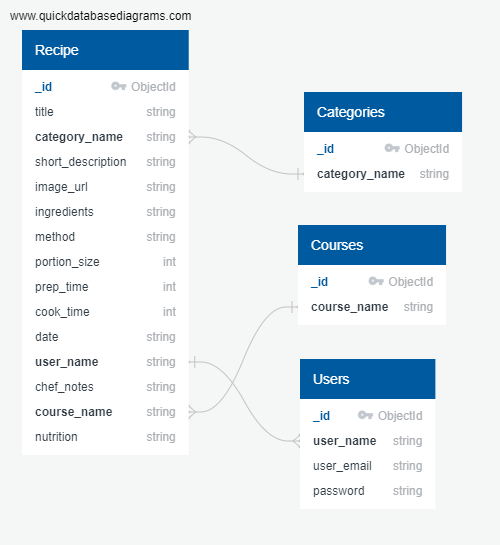
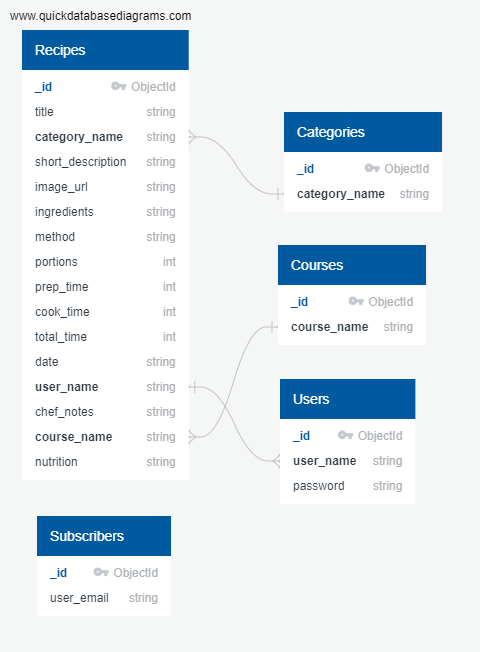
Change text Back to All Recipes to an arrow and just To All Recipes

diff --git a/templates/search-results.html b/templates/search-results.html
@@ -25,7 +25,7 @@
     <!-- back to search -->
     <div class="row">
         <div class="col s12">
-            <a href="{{ url_for('all_recipes') }}" class="waves-effect waves-dark btn orange">Back to All Recipes</a>
+            <a href="{{ url_for('all_recipes') }}" class="waves-effect waves-dark btn orange"><i class="small material-icons left">chevron_left</i> To All Recipes</a>
         </div>
     </div>
     <div class="row">

diff --git a/README.md b/README.md
@@ -156,14 +156,26 @@ Colours for some buttons, like edit and delete were based on different shades of
 
 #### Fonts
 
-On all the recipe websites I researched, I liked the font used on [Napolina](https://www.napolina.com/recipes/30-minute/rigatoni-with-goats-cheese-and-spinach) as a heading, it really stood out as being slightly different with the narrow 's'. However this font is an Adobe Font called 'Mostra Nuova' and would require a licence (Adobe subscription). So I used Google font's filter options to find a narrow, sans-serif to look for a font with similar properties. The [Yanone Kaffeesatz](https://fonts.google.com/specimen/Yanone+Kaffeesatz) font was a more interesting font than most, as it has some slightly different shaped characters than most other fonts of similar type, the k, r and e being good examples. Google fonts has suggestions for font pairings that would work for each particular font, so I looked throught these for a nice body font. I wanted this font to be wider and easier to read at small sizes and had a bit of a constrast with the headings, so I decided [Montserrat](https://fonts.google.com/specimen/Montserrat) would work well.
+On all the recipe websites I researched, I liked the font used on [Napolina](https://www.napolina.com/recipes/30-minute/rigatoni-with-goats-cheese-and-spinach) as a heading, it really stood out as being slightly different with the narrow 's'. However this font is an Adobe Font called 'Mostra Nuova' and would require a licence (Adobe subscription). So I used Google font's filter options to find a narrow, sans-serif to look for a font with similar properties. The [Yanone Kaffeesatz](https://fonts.google.com/specimen/Yanone+Kaffeesatz) font was a more interesting font than most, as it has some slightly different shaped characters than most other fonts of similar type, the k, r and e being good examples. Google fonts has suggestions for font pairings that would work for each particular font, so I looked through these for a nice body font. I wanted this font to be wider and easier to read at small sizes and had a bit of a contrast with the headings, so I decided [Montserrat](https://fonts.google.com/specimen/Montserrat) would work well.
 This [canva article](https://www.canva.com/learn/the-ultimate-guide-to-font-pairing/) also shows Montserrat working well with Narrower heading fonts.
 
 ### Database Schema
 
-Based on the functionality required and the data to be stored, I created my database structure. The Recipe and Categories documents (or tables) would have fields of the same name, so a recipe can be saved to a course type and a category.
+Based on the functionality required and the data to be stored, I created my database structure. The Recipe and Categories documents (or tables) would have fields of the same name, so a recipe can be saved to a course type and a category. A recipe would also need a user, if users are to log in and have the recipes they create connected to their profile.
+
+For now the users do not need to supply an email, but if this project was to advance, this would most probably be require, for things like forgotten password resets.
+
+The subscribers collection would for now only store an email. This is not actually connected to any newsletter service. In the future, this subscriber email could be connected to the users.
 
 ![Schema](README_resources/recipe-app-DB-diagram.png)
+
+### Defensive Design
+
+An important part of UX is making sure users cannot cause errors, and that they get positive useful feedback if they try to perform an action that they are not allowed to. This includes things like:
+ - A user cannot break the site (or cause an error appear on screen), by pressing buttons out of expected order, or using browser forward and back buttons.
+ - Required Form inputs give warnings or feedback if not filled, or filled correctly.
+ - A user is given feedback if they are not allowed to do something.
+ - A custom '404 page not found' page.
 
 ## Technologies Used
 
@@ -180,6 +192,7 @@ Based on the functionality required and the data to be stored, I created my data
 10. [Font Awesome](https://fontawesome.com/)
 11. Google Fonts
 12. [JQuery](https://jquery.com) - The project uses **JQuery** to simplify DOM manipulation, and animation of certain elements.
+13. Extended Material Design icons from [Material Design Icons](https://materialdesignicons.com/)
 
 ### Tools Used
 1. [VS Code](https://code.visualstudio.com/) and [Brackets](http://brackets.io/) code editors.
@@ -191,11 +204,24 @@ Based on the functionality required and the data to be stored, I created my data
 7. [Coolor](https://coolors.co/) - Used top help determine the colour scheme.
 8. [The Padwan Project](https://github.com/Eventyret/Padawan) - While I did not use this tool to generate my project's starting point as I started with [Code Institute's Full template](https://github.com/Code-Institute-Org/gitpod-full-template), I did use it as a reference.
 9. [Gloomaps](https://www.gloomaps.com/) - For creating my sitemap.
+10. [Cloudinary](https://cloudinary.com/) for storing recipe images and images for testing with.
 
 
 ## Features
  
 ### Existing Features
+
+#### The ability to browse/search by recipe categories that are on the website.
+
+#### The ability to search recipes by text keyword. 
+
+This search only searches the recipes title and short description fields. I decided against including the ingredients field as there may be too many minor ingredients that cause too many recipes to appear in the results. For example, nearly every recipe could conceivably contain pepper, but if someone was searching for say a bell pepper recipe, they would have all recipes returned. Plus usually people are searching for a dish title or the main ingredient around which the dish is based.
+
+#### The ability to browse by recipe course.
+
+#### The ability to easily print a recipe in a printer friendly format.
+
+On each recipe page there is a print button, which just easily allows the user to print a recipe. There is a print stylesheet that removes elements you would not need/want printed like the navigation, and it only loads on the individual recipe page.
 
 #### Users can only edit their own Recipes
 #### User can view their own recipes
@@ -203,38 +229,45 @@ Based on the functionality required and the data to be stored, I created my data
 By navigating to their profile page a user can view all the recipes that they have submitted to the site.
 
 #### Minor Features
-Expand the sections below for more info on details
+Expand the sections below for more info on details:
 
 <details>
   <summary><strong>Responsive images</strong></summary>
+
 As the recipe images are provided by external users I could not make these smaller for mobile.
 To allow me to use a different image for the 'no recipe image' for mobile I used the `<picture>` element. This allowed me to create a smaller image just for a mobile.
+The large images for the background of the search panel and title panels actually have 5 different size variations depending on the screen width, using CSS media queries.
+
 </details>
 
 <details>
   <summary><strong>Password matching on Register</strong></summary>
+
 There is a 'Confirm Password' field on the register form which compares the 2 password fields, basically by setting the pattern attribute of the 'Confirm password' field to the first using simple JavaScript onchange function. The basics of this are very simple, the onchange function on the first password field sets the pattern attribute on the second field to be the value of the first field.
 If they do not match, on submission the browser notifies the user "Please match the format requested", which means the password comparing is working but the notification is not clear in what it is asking for. This is the browser default for a pattern not matching, but ideally it should says something like "Passwords do not match". I thought I was going to have to find some javascript to change this and was looking on [this article](https://www.the-art-of-web.com/javascript/validate-password/#section_5) and found that the simplest thing to do is to use a title attribute, and most browsers will automatically display that text in case of a missing value or pattern mismatch. So I did not include any additional Javascript for this for the moment.
 I was also going to include a [RegEx polyfill](https://www.the-art-of-web.com/javascript/validate-password/#section_7) because if your password1 contains a '*' or other special regular expression characters, the pattern for password2 can become invalid. But at the moment my password1 field pattern attribute is actually set to just characters from a-z or numbers so this is not required.
+
 </details>
 
 <details>
   <summary><strong>Skip to main content</strong></summary>
 
- There is a 'Skip to main content' link just inside the body tag for accessibility for screen readers. The main content is not usually the first thing on a web page. Keyboard and screen reader users generally must navigate a long list of navigation links, sub-lists of links, corporate icons, site searches, and other elements before ever arriving at the main content. This is then hidden from view with the bootstrap class 'sr-only', however when it receives focus from keyboard it becomes visible, by basically reversing the Bootstrap CSS properties on focus. This is based on accessibility recommendations from https://webaim.org/techniques/skipnav/. This can be checked by pressing tab when a pages loads.
+ There is a 'Skip to main content' link just inside the body tag for accessibility for screen readers. The main content is not usually the first thing on a web page. Keyboard and screen reader users generally must navigate a long list of navigation links, sub-lists of links, corporate icons, site searches, and other elements before ever arriving at the main content. This is then hidden from view with the class 'sr-only', however when it receives focus from keyboard it becomes visible. This is based on accessibility recommendations from https://webaim.org/techniques/skipnav/. This can be checked by pressing tab when a pages loads, and then pressing tab again should show the next focused element is on the page content and not the logo or navigation.
+
  </details>
 
-##### Form input count
-The text area fields have a max number of characters allowed so I added a simple JavaScript character count on input to give the user an idea of how many characters they have used. This was based on references from [w3schools oninput](https://www.w3schools.com/jsref/event_oninput.asp) and [w3schools output](https://www.w3schools.com/tags/tag_output.asp).
+##### 
+
+
 
 ### Features to consider implementing in the future
 
  - Additional Categorisation by Cuisine (Italian, Chinese etc...) and tags, like for specific ingredients like eggs or potatoes.
+  
 
 ## Testing
 
-Please see [Testing Document](TESTING.md) for all my testing
-
+Please see [Testing Document](TESTING.md) for all my testing.
 
 ## Deployment
 
@@ -274,7 +307,7 @@ I was first using the POST method from the category select dropdown form on the 
 
 So I changed the form method to GET and got the category selected using request.args. This way the category parameter is passed through the url like /category/?category_name=Chicken. So this url can be reloaded, or copied, shared and opened in a new window and still works. So the user cannot generate an error like was possible with POST.
 
-Similary I then changed the text search form and view to use the GET method, otherwise reloading the search result page cause an error. But using the GET method makes the search results url work if shared or copied to a new window.
+Similarly I then changed the text search form and view to use the GET method, otherwise reloading the search result page cause an error. But using the GET method makes the search results url work if shared or copied to a new window.
 
 ### Materialize select dropdown would not work on mobile
 
@@ -315,6 +348,7 @@ So I thought a better solution would be to set a max-height on the select dropdo
  - Information on message flashing I referenced [Flask Flash docs](https://flask.palletsprojects.com/en/1.1.x/patterns/flashing/)
  - Validation JavaScript for Materialize select - This script was supplied by Code Institute, because by default the materialize select provides no feedback on a required select field that is left blank.
  - Compare registration passwords - I reference [this article](https://www.the-art-of-web.com/javascript/validate-password/#section_5) when looking for a Javascript way to change the 'Confirm Password' field notification of wrong pattern.
+ - Form input count - The text area fields have a max number of characters allowed so I added a simple JavaScript character count on input to give the user an idea of how many characters they have used. This was based on references from [w3schools oninput](https://www.w3schools.com/jsref/event_oninput.asp) and [w3schools output](https://www.w3schools.com/tags/tag_output.asp).
  
 ### Content
 
@@ -331,7 +365,7 @@ The photos and vectors used in this site were obtained from:
  - All recipes page search panel image from [Ella Olsson](https://www.pexels.com/@ella-olsson-572949?utm_content=attributionCopyText&utm_medium=referral&utm_source=pexels) on [Pexels](https://www.pexels.com/photo/photo-of-vegetable-salad-in-bowls-1640770/).
  - Image for No Recipe Image by [Daria Yakovleva](https://pixabay.com/users/daria-yakovleva-3938704/) on [Pixabay](https://pixabay.com/photos/food-products-rustic-vegetables-1898194/).
  - 404 image by [laurentvalentinjospi0](https://pixabay.com/users/laurentvalentinjospi0-986947/) on [Pixabay](https://pixabay.com/photos/dishes-white-plate-stemware-938747/).
- - Courses illustrations were purchased on [shutterstock](https://www.shutterstock.com/image-vector/menu-icons-172235042) and the [other course here](https://www.shutterstock.com/image-vector/vector-hand-drawn-food-meal-on-201739760).
+ - Courses illustrations were purchased on [shutterstock](https://www.shutterstock.com/image-vector/menu-icons-172235042) and the ['other' course on shutterstock here](https://www.shutterstock.com/image-vector/vector-hand-drawn-food-meal-on-201739760).
  - Extended Material Design icons from [Material Design Icons](https://materialdesignicons.com/) and are packaged under the [SIL Open Font License 1.1.](https://github.com/Templarian/MaterialDesign/blob/master/LICENSE)
  - The favicons were generated at https://realfavicongenerator.net/
 
